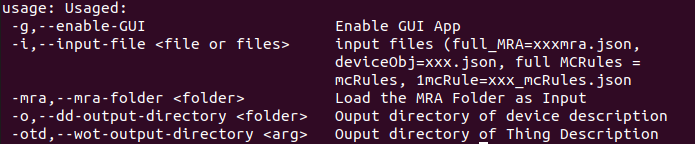
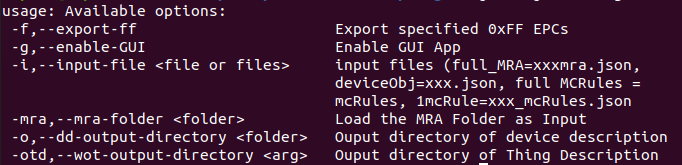
Added an option to export EPC=0xFF for special usecases 	Usage: -f or --export-ff

diff --git a/src/main/java/echonet/datawg/main/DDExporter.java b/src/main/java/echonet/datawg/main/DDExporter.java
@@ -46,6 +46,7 @@ public class DDExporter {
 	protected static String outputWoTDir;
 	protected static String[] inputFiles;
 	protected static boolean isGUI = false;
+	public static boolean exportFF = false;
 	protected static String full_MRA_File_Name;
 	protected static String aDevice_File_Name;
 	protected static String MC_Rules_File_Name;
@@ -191,7 +192,7 @@ public class DDExporter {
 		try {
 			cmd = parser.parse(option, args);
 		} catch (ParseException e) {			//e.printStackTrace();
-			help.printHelp("Usaged:", buildOpts());
+			help.printHelp("Available options:", buildOpts());
 			System.exit(1);
 		}
 		
@@ -213,8 +214,11 @@ public class DDExporter {
 		if(cmd.hasOption("wot-output-directory")) {
 			outputWoTDir = cmd.getOptionValue("wot-output-directory").trim();
 		}
-		if(cmd.hasOption("display-GUI")) {
+		if(cmd.hasOption("enable-GUI")) {
 			isGUI = true;
+		}
+		if(cmd.hasOption("export-ff")) {
+			exportFF = true;
 		}
 		
 	}
@@ -246,6 +250,8 @@ public class DDExporter {
 		
 		Option GUI = new Option("g", "enable-GUI", false, "Enable GUI App");
 		options.addOption( GUI);
+		Option exportFF = new Option("f", "export-ff", false, "Export specified 0xFF EPCs");
+		options.addOption( exportFF);
 		
 		
 		

diff --git a/src/main/java/echonet/datawg/echonetObjects/ECHONETLiteProperty.java b/src/main/java/echonet/datawg/echonetObjects/ECHONETLiteProperty.java
@@ -15,6 +15,7 @@ import echonet.datawg.dataTypeObjects.DataType;
 import echonet.datawg.dataTypeObjects.ObjectProperty;
 import echonet.datawg.dataTypeObjects.ObjectType;
 import echonet.datawg.dataTypeObjects.RawType;
+import echonet.datawg.main.DDExporter;
 import echonet.datawg.utils.AccessRuleEnum;
 import echonet.datawg.utils.Constants;
 import echonet.datawg.utils.WoTConstants;
@@ -82,6 +83,13 @@ public ECHONETLiteProperty(String code) {
 		ObjectMapper mapper = new ObjectMapper();
 		ObjectNode rootNode = mapper.createObjectNode();
 		//0xFF is a non EPC code
+		if(DDExporter.exportFF) {
+			rootNode.put(eConstants.KEYWORD_EPC, code);
+		} else {
+			if(!code.equals("0xFF")) {
+				rootNode.put(eConstants.KEYWORD_EPC, code);
+			}
+		}
 		if(!code.equals("0xFF")) {
 			rootNode.put(eConstants.KEYWORD_EPC, code);
 		}
